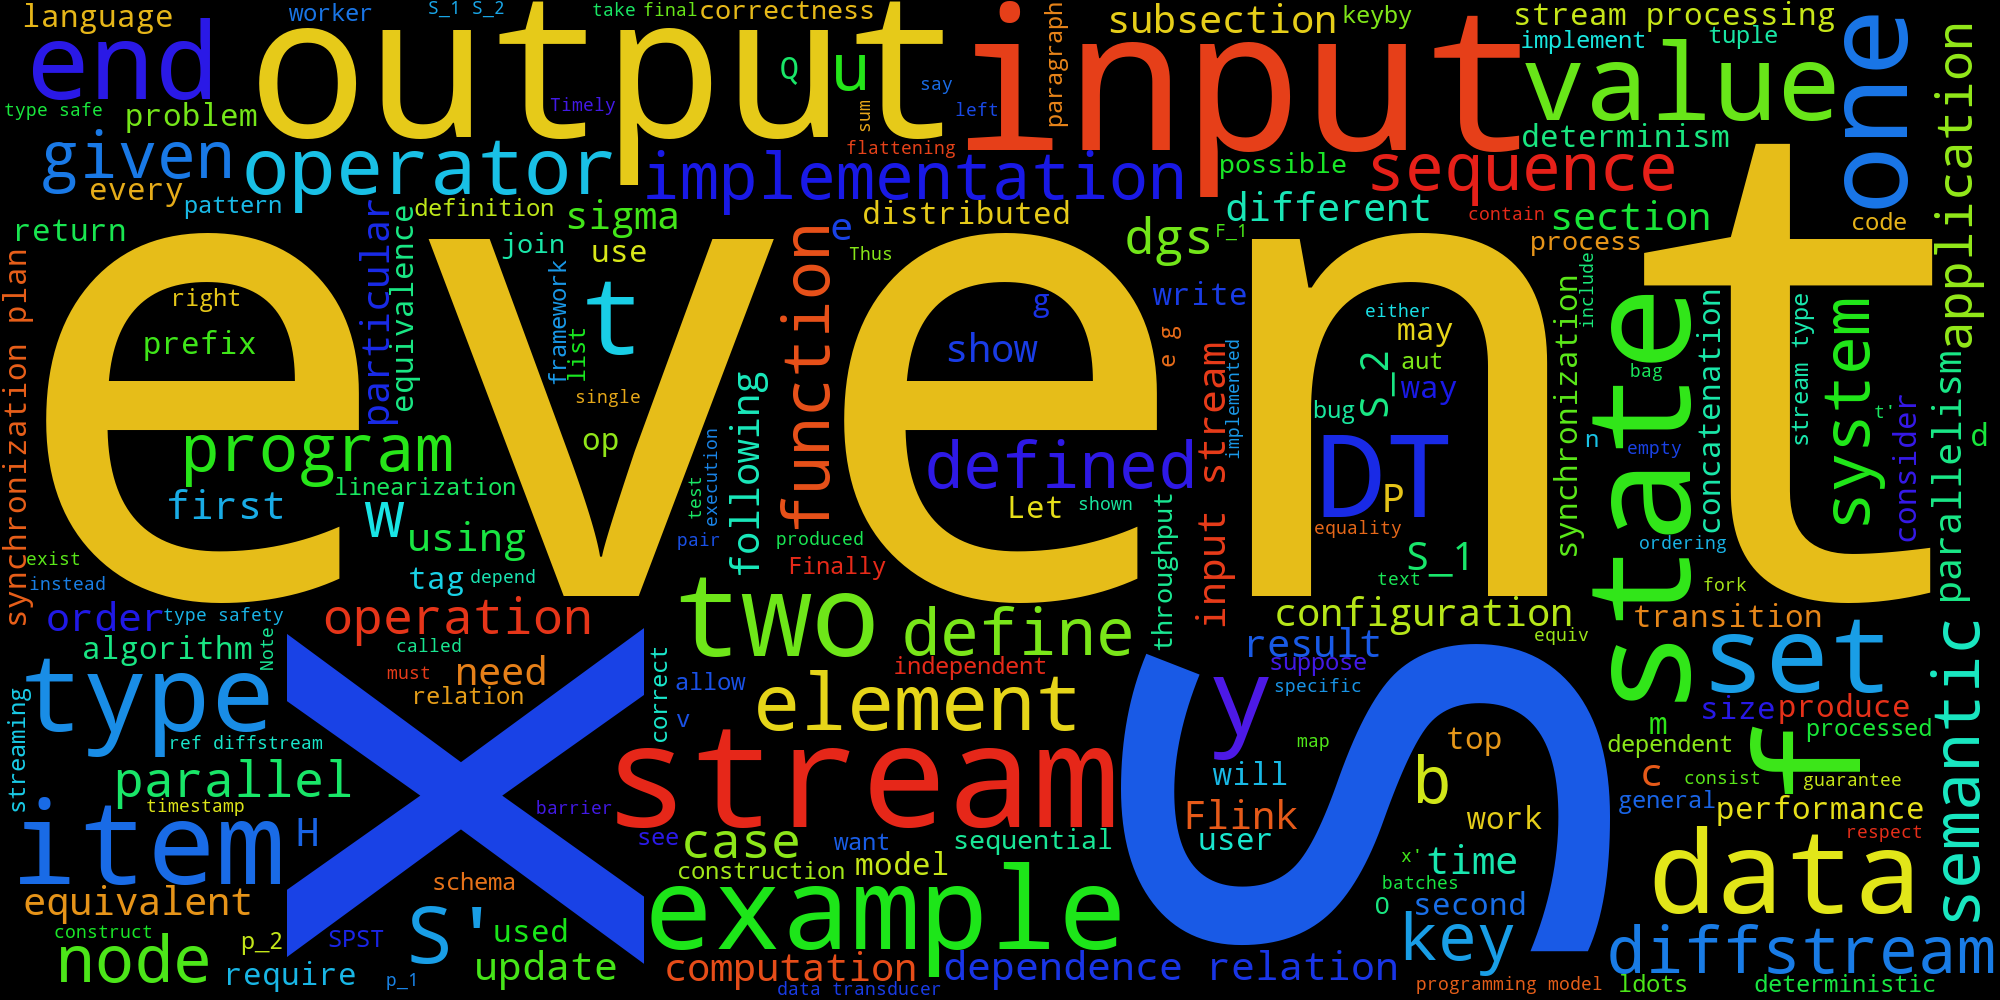
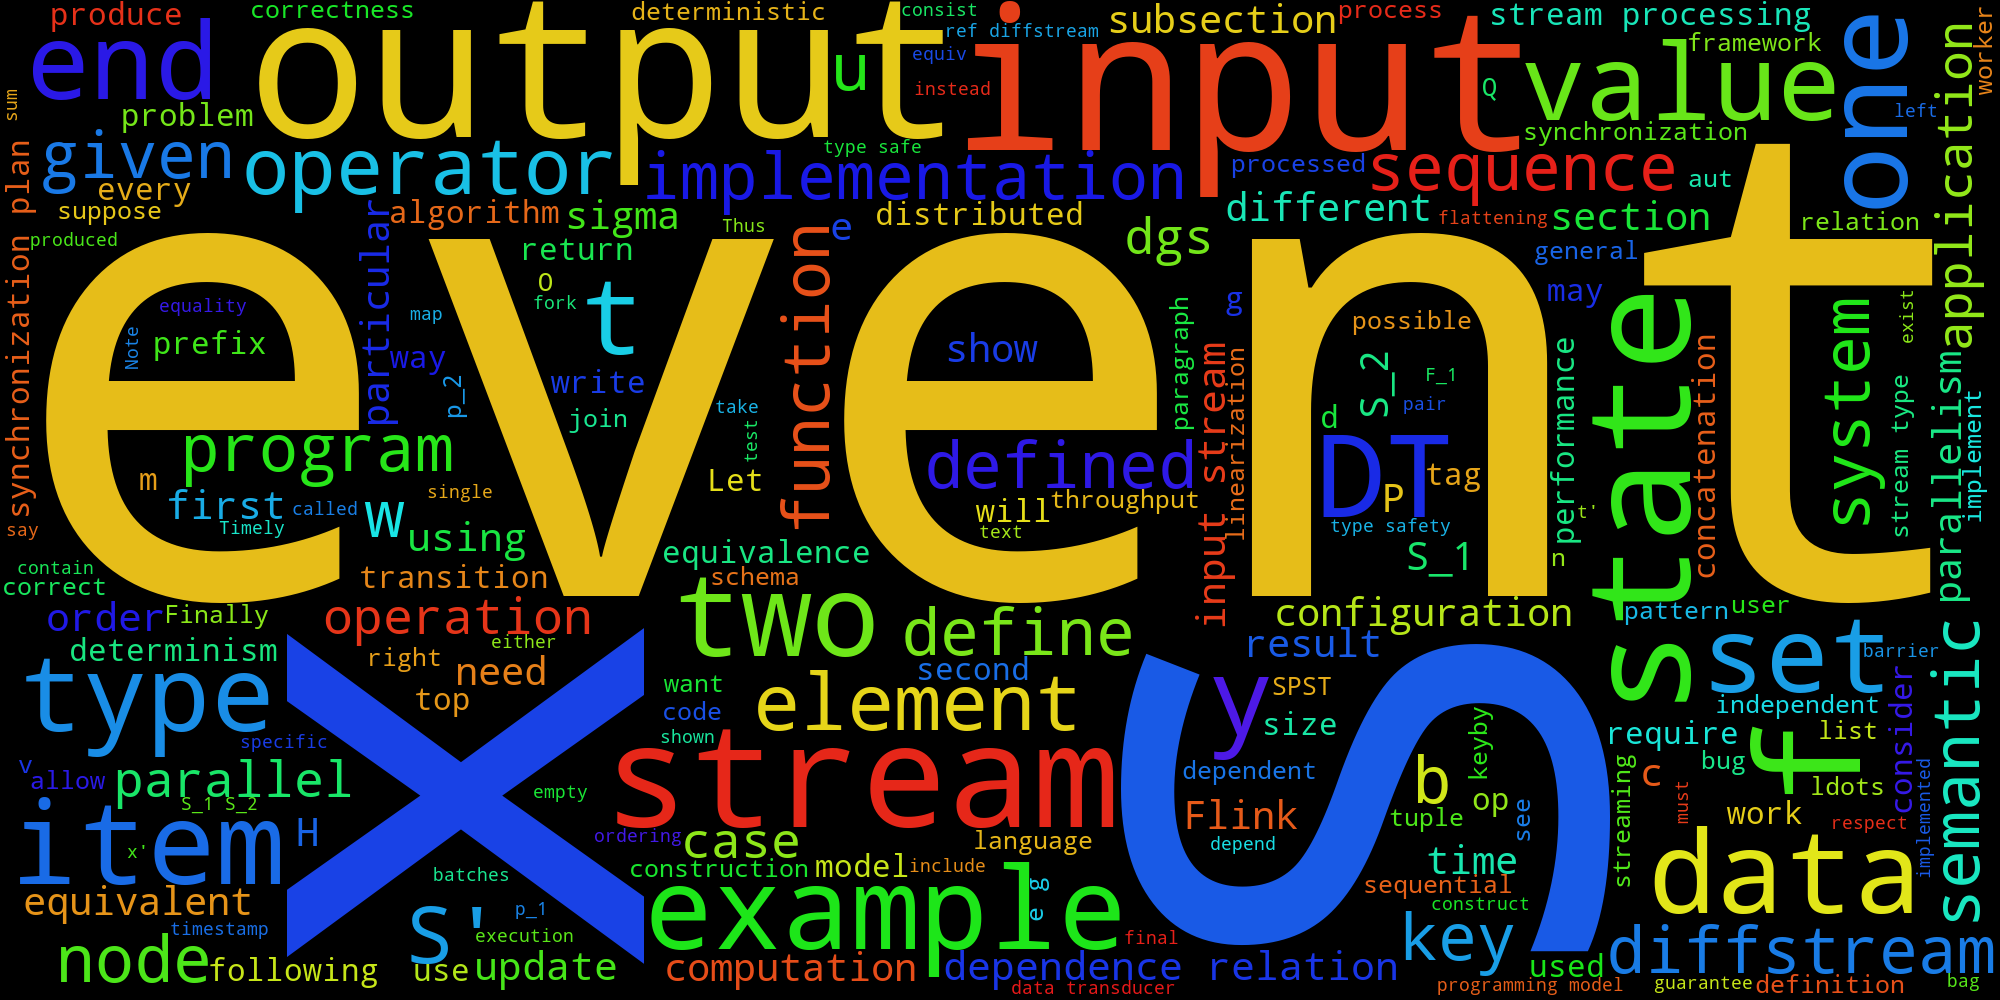
add references wordcloud to appendix

diff --git a/src/appendix.tex b/src/appendix.tex
@@ -4,11 +4,17 @@
 
 \section{Word Cloud}
 
-The following is a word cloud generated from all the text in this thesis.
-The image was generated using the \githubref{https://github.com/amueller/word\_cloud}{\texttt{wordcloud\_cli} Python tool}.
+Here is a word cloud generated from all the text in this thesis.
+The image was generated using the \githubref{https://github.com/amueller/word\_cloud}{\texttt{wordcloud\_cli} Python tool} with a custom list of omitted LaTeX-related words.
 
 \headerblock{
   \headerimage{img/wordcloud.png}
+}
+
+And here is a word cloud generated from the references (bibliography) file:
+
+\headerblock{
+  \headerimage{img/wordcloud_refs.png}
 }
 
 \section{Epigraph Outtakes}
